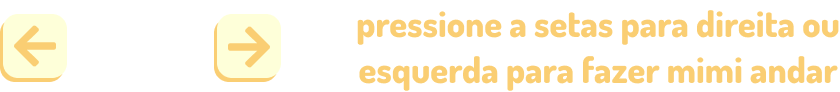
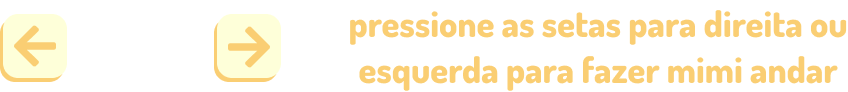
kkk corrigi o plural

diff --git a/jogo.py b/jogo.py
@@ -1051,13 +1051,8 @@ def jogo(janela):
 
     while True:
 
-<<<<<<< HEAD
         if imune:
             droparcarne(carne, mimi)
-=======
-        #if imune:
-            #droparcarne(carne, mimi, janela)
->>>>>>> 3b88ce36ab0c35bd5a7ac54262e4a893b803468d
         if carne.y < janela.height - 100 and pegar == 0:
             carne.y += 1
 
